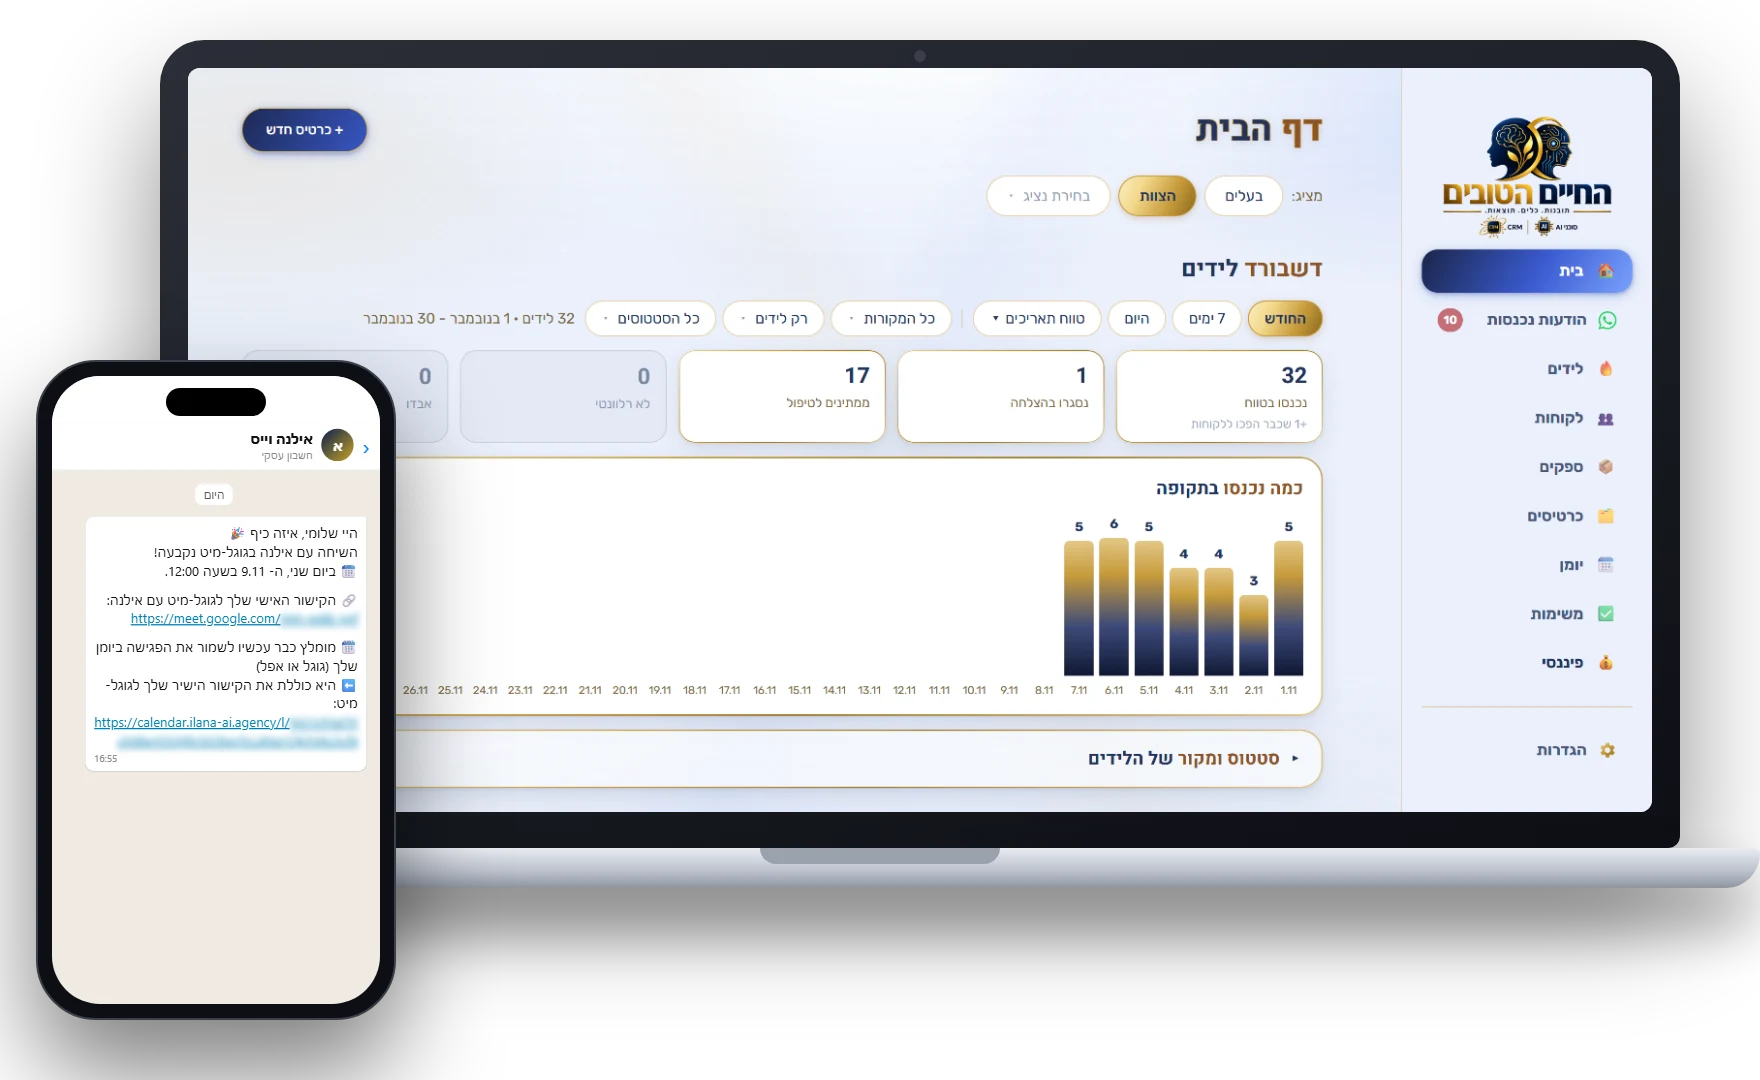
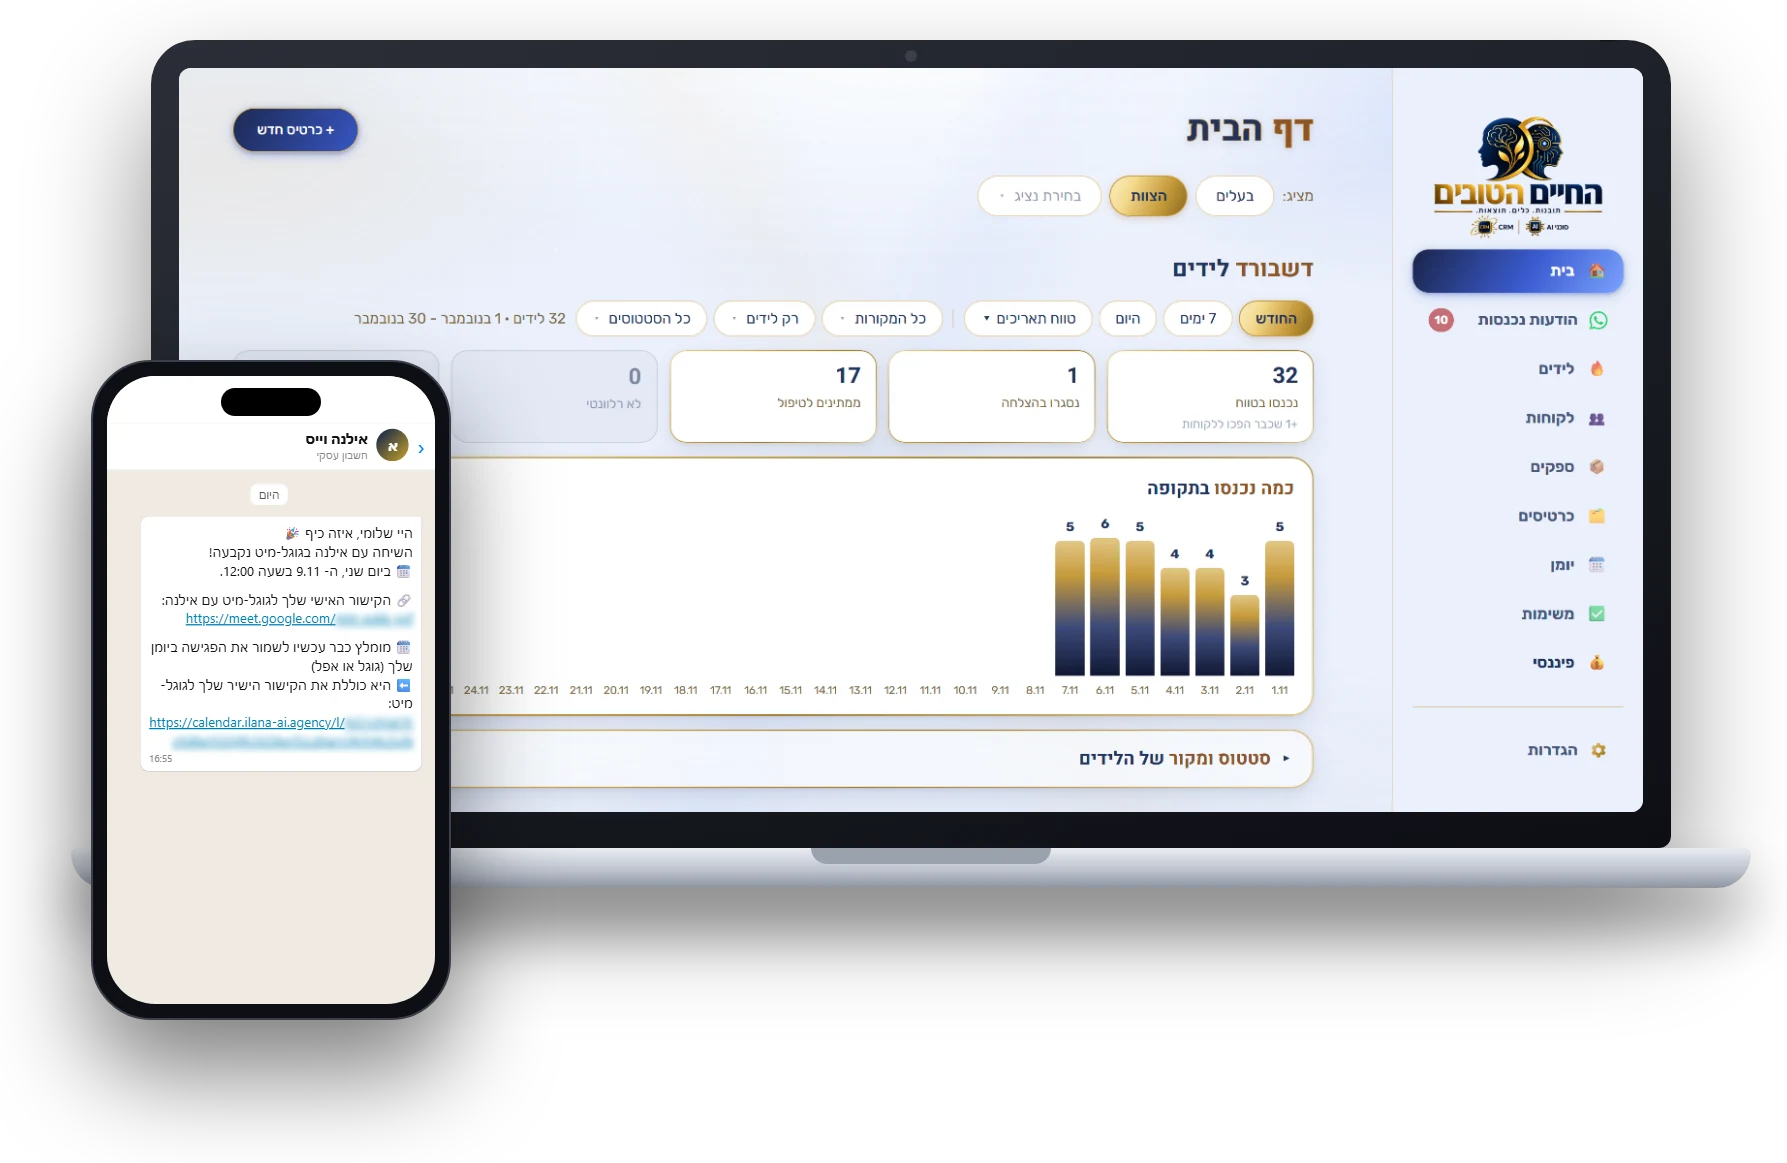
style(crm): מוקאפ הפתיחה גדול יותר ובלי צל חתוך

diff --git a/crm/index.html b/crm/index.html
@@ -17,7 +17,7 @@
   <link rel="preconnect" href="https://fonts.googleapis.com" />
   <link rel="preconnect" href="https://fonts.gstatic.com" crossorigin />
   <link href="https://fonts.googleapis.com/css2?family=Heebo:wght@400;500;700;800&display=swap" rel="stylesheet" />
-  <link rel="stylesheet" href="/assets/site.css?v=20261107i" />
+  <link rel="stylesheet" href="/assets/site.css?v=20261107j" />
 </head>
 <body>
 
@@ -51,7 +51,7 @@
             <a class="btn btn-ghost wa-btn" href="/wa-site/" target="_blank" rel="noopener"><svg class="wa-ico" viewBox="0 0 24 24" aria-hidden="true"><path d="M17.47 14.38c-.3-.15-1.75-.86-2.02-.96-.27-.1-.47-.15-.67.15-.2.3-.77.96-.94 1.16-.17.2-.35.22-.64.08-.3-.15-1.25-.46-2.38-1.47-.88-.79-1.48-1.75-1.65-2.05-.17-.3-.02-.46.13-.6.14-.14.3-.35.45-.53.15-.18.2-.3.3-.5.1-.2.05-.38-.03-.53-.07-.15-.67-1.6-.92-2.2-.24-.58-.49-.5-.67-.51h-.57c-.2 0-.52.07-.79.38-.27.3-1.04 1.02-1.04 2.48s1.07 2.88 1.22 3.08c.15.2 2.1 3.2 5.08 4.49.71.3 1.26.49 1.69.63.71.22 1.36.19 1.87.12.57-.09 1.75-.72 2-1.41.25-.7.25-1.28.17-1.41-.07-.13-.27-.2-.57-.35z"/><path d="M12.04 2C6.58 2 2.13 6.45 2.13 11.91c0 1.75.46 3.45 1.32 4.95L2 22l5.25-1.38a9.87 9.87 0 0 0 4.79 1.22h.01c5.46 0 9.91-4.45 9.91-9.91 0-2.65-1.03-5.14-2.9-7.01A9.82 9.82 0 0 0 12.04 2zm0 18.13h-.01a8.2 8.2 0 0 1-4.19-1.15l-.3-.18-3.12.82.83-3.04-.2-.31a8.2 8.2 0 0 1-1.26-4.36c0-4.54 3.7-8.24 8.25-8.24a8.2 8.2 0 0 1 8.24 8.25c0 4.54-3.7 8.21-8.24 8.21z"/></svg><span>התכתבות בוואטסאפ</span></a>
           </div>
         </div>
-        <figure class="hero-devices"><img src="/assets/img/crm/hero-devices.webp" width="1760" height="1080" alt="מערכת ה-CRM על מחשב נייד, ואישור פגישה בוואטסאפ בטלפון" fetchpriority="high" /></figure>
+        <figure class="hero-devices"><img src="/assets/img/crm/hero-devices.webp?v=2" width="1787" height="1163" alt="מערכת ה-CRM על מחשב נייד, ואישור פגישה בוואטסאפ בטלפון" fetchpriority="high" /></figure>
       </div>
     </section>
 

diff --git a/assets/site.css b/assets/site.css
@@ -1383,10 +1383,11 @@ div.svc-list { padding: 0; display: grid; gap: clamp(18px, 2.4vw, 26px); }
 .feat-title .mail-ico { width: 34px; height: 34px; flex: none; }
 /* פתיחת עמוד ה-CRM: טקסט מימין, מחשב וטלפון משמאל שגולשים אל הסקשן הבא (אילנה, 7.11.2026) */
 .hero-devices { margin: clamp(22px, 4vw, 34px) auto 0; max-width: 620px; }
-.hero-devices img { display: block; width: 100%; height: auto; filter: drop-shadow(0 18px 30px rgba(0,0,0,.25)); }
+.hero-devices img { display: block; width: 100%; height: auto; }
 @media (min-width: 980px) {
   .crm-hero { overflow: visible; z-index: 2; padding-bottom: clamp(30px, 3vw, 44px); }
-  .hero-split { display: grid; grid-template-columns: minmax(0, 1fr) minmax(0, 1.05fr); gap: clamp(20px, 3vw, 48px); align-items: center; }
+  .hero-split { display: grid; grid-template-columns: minmax(0, 1fr) minmax(0, 1.3fr); gap: clamp(20px, 3vw, 48px); align-items: center; }
   .hero-split .hero-text .lead { max-width: 560px; }
-  .hero-devices { margin: 0 0 -110px; max-width: none; }
+  .hero-devices { margin: 0 0 -120px; max-width: none; }
+  .crm-hero .hero-split { max-width: 1320px; }
 }

diff --git a/dashboard/index.html b/dashboard/index.html
@@ -16,7 +16,7 @@
   <link rel="preconnect" href="https://fonts.googleapis.com" />
   <link rel="preconnect" href="https://fonts.gstatic.com" crossorigin />
   <link href="https://fonts.googleapis.com/css2?family=Heebo:wght@400;500;700;800&display=swap" rel="stylesheet" />
-  <link rel="stylesheet" href="/assets/site.css?v=20261107i" />
+  <link rel="stylesheet" href="/assets/site.css?v=20261107j" />
 
   <style>
     /* ====== ייחודי לעמוד הדשבורד ====== */

diff --git a/ai-agents/index.html b/ai-agents/index.html
@@ -17,7 +17,7 @@
   <link rel="preconnect" href="https://fonts.googleapis.com" />
   <link rel="preconnect" href="https://fonts.gstatic.com" crossorigin />
   <link href="https://fonts.googleapis.com/css2?family=Heebo:wght@400;500;700;800&display=swap" rel="stylesheet" />
-  <link rel="stylesheet" href="/assets/site.css?v=20261107i" />
+  <link rel="stylesheet" href="/assets/site.css?v=20261107j" />
 </head>
 <body>
 

diff --git a/anastasia/index.html b/anastasia/index.html
@@ -17,7 +17,7 @@
   <link rel="preconnect" href="https://fonts.googleapis.com" />
   <link rel="preconnect" href="https://fonts.gstatic.com" crossorigin />
   <link href="https://fonts.googleapis.com/css2?family=Heebo:wght@400;500;700;800&display=swap" rel="stylesheet" />
-  <link rel="stylesheet" href="/assets/site.css?v=20261107i" />
+  <link rel="stylesheet" href="/assets/site.css?v=20261107j" />
 </head>
 <body>
 

diff --git a/contact/index.html b/contact/index.html
@@ -17,7 +17,7 @@
   <link rel="preconnect" href="https://fonts.googleapis.com" />
   <link rel="preconnect" href="https://fonts.gstatic.com" crossorigin />
   <link href="https://fonts.googleapis.com/css2?family=Heebo:wght@400;500;700;800&display=swap" rel="stylesheet" />
-  <link rel="stylesheet" href="/assets/site.css?v=20261107i" />
+  <link rel="stylesheet" href="/assets/site.css?v=20261107j" />
 </head>
 <body>
 

diff --git a/index.html b/index.html
@@ -17,7 +17,7 @@
   <link rel="preconnect" href="https://fonts.googleapis.com" />
   <link rel="preconnect" href="https://fonts.gstatic.com" crossorigin />
   <link href="https://fonts.googleapis.com/css2?family=Heebo:wght@400;500;700;800&display=swap" rel="stylesheet" />
-  <link rel="stylesheet" href="/assets/site.css?v=20261107i" />
+  <link rel="stylesheet" href="/assets/site.css?v=20261107j" />
 </head>
 <body>
 

diff --git a/podcast/1/index.html b/podcast/1/index.html
@@ -16,7 +16,7 @@
   <link rel="preconnect" href="https://fonts.googleapis.com" />
   <link rel="preconnect" href="https://fonts.gstatic.com" crossorigin />
   <link href="https://fonts.googleapis.com/css2?family=Heebo:wght@400;500;700;800&display=swap" rel="stylesheet" />
-  <link rel="stylesheet" href="/assets/site.css?v=20261107i" />
+  <link rel="stylesheet" href="/assets/site.css?v=20261107j" />
 </head>
 <body>
 

diff --git a/podcast/_episode-template/index.html b/podcast/_episode-template/index.html
@@ -16,7 +16,7 @@
   <link rel="preconnect" href="https://fonts.googleapis.com" />
   <link rel="preconnect" href="https://fonts.gstatic.com" crossorigin />
   <link href="https://fonts.googleapis.com/css2?family=Heebo:wght@400;500;700;800&display=swap" rel="stylesheet" />
-  <link rel="stylesheet" href="/assets/site.css?v=20261107i" />
+  <link rel="stylesheet" href="/assets/site.css?v=20261107j" />
 </head>
 <body>
 

diff --git a/podcast/index.html b/podcast/index.html
@@ -16,7 +16,7 @@
   <link rel="preconnect" href="https://fonts.googleapis.com" />
   <link rel="preconnect" href="https://fonts.gstatic.com" crossorigin />
   <link href="https://fonts.googleapis.com/css2?family=Heebo:wght@400;500;700;800&display=swap" rel="stylesheet" />
-  <link rel="stylesheet" href="/assets/site.css?v=20261107i" />
+  <link rel="stylesheet" href="/assets/site.css?v=20261107j" />
 </head>
 <body>
 

diff --git a/terms/index.html b/terms/index.html
@@ -17,7 +17,7 @@
   <link rel="preconnect" href="https://fonts.googleapis.com" />
   <link rel="preconnect" href="https://fonts.gstatic.com" crossorigin />
   <link href="https://fonts.googleapis.com/css2?family=Heebo:wght@400;500;700;800&display=swap" rel="stylesheet" />
-  <link rel="stylesheet" href="/assets/site.css?v=20261107i" />
+  <link rel="stylesheet" href="/assets/site.css?v=20261107j" />
 </head>
 <body>
 
